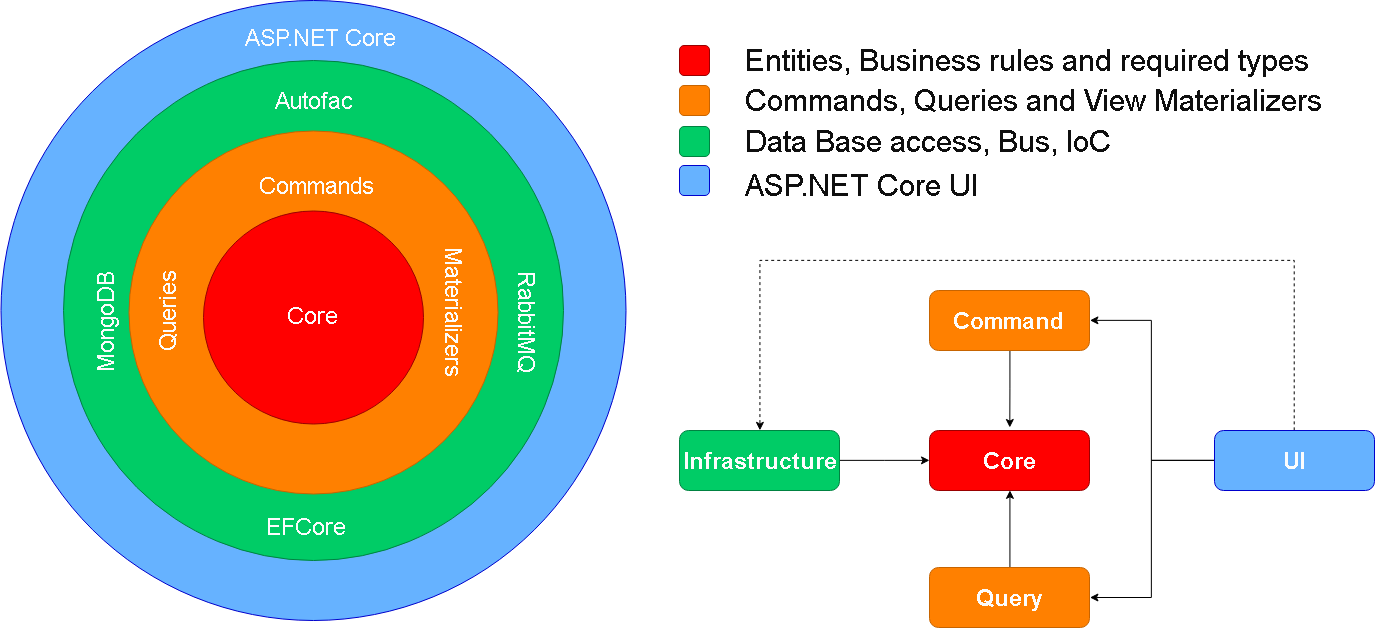
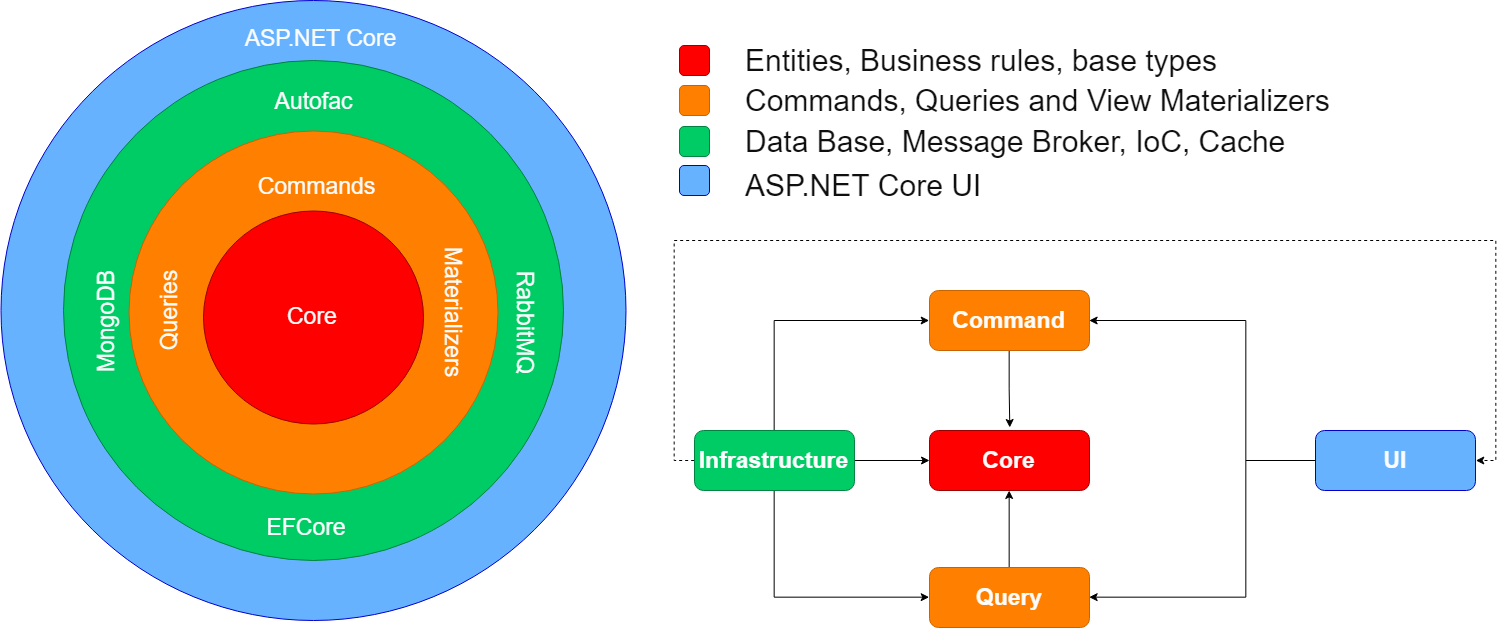
updating doc

diff --git a/README.md b/README.md
@@ -15,7 +15,9 @@ Coming soon.
 >The strategy behind that facilitation is to leave as >many options open as possible, for as long as possible.
 >-Robin C. Martin
 
-Clean Architecture has lots of different interpretations and implementations around. I've tried to implement CQRS with Clean in the best way to take advantage of the main concepts of this architectural pattern, making this microservice template flexible, maintainable, evolvable, testable, detached from technology and what I think as more important, with business as central goal.
+Clean Architecture has lots of different interpretations and implementations around. I've tried to implement CQRS with Clean in the best way to take advantage of the main concepts of this architectural pattern, making this microservice template flexible, maintainable, evolvable, testable, detached from technology and what I think as more important respecting the policy rule below:
+
+>Source Code dependencies must point only inward, towards higher-level policy.
 
 ![cqrs-clean](https://github.com/fals/cqrs-clean-eventual-consistency/blob/master/docs/cqrs-clean.png)
 
